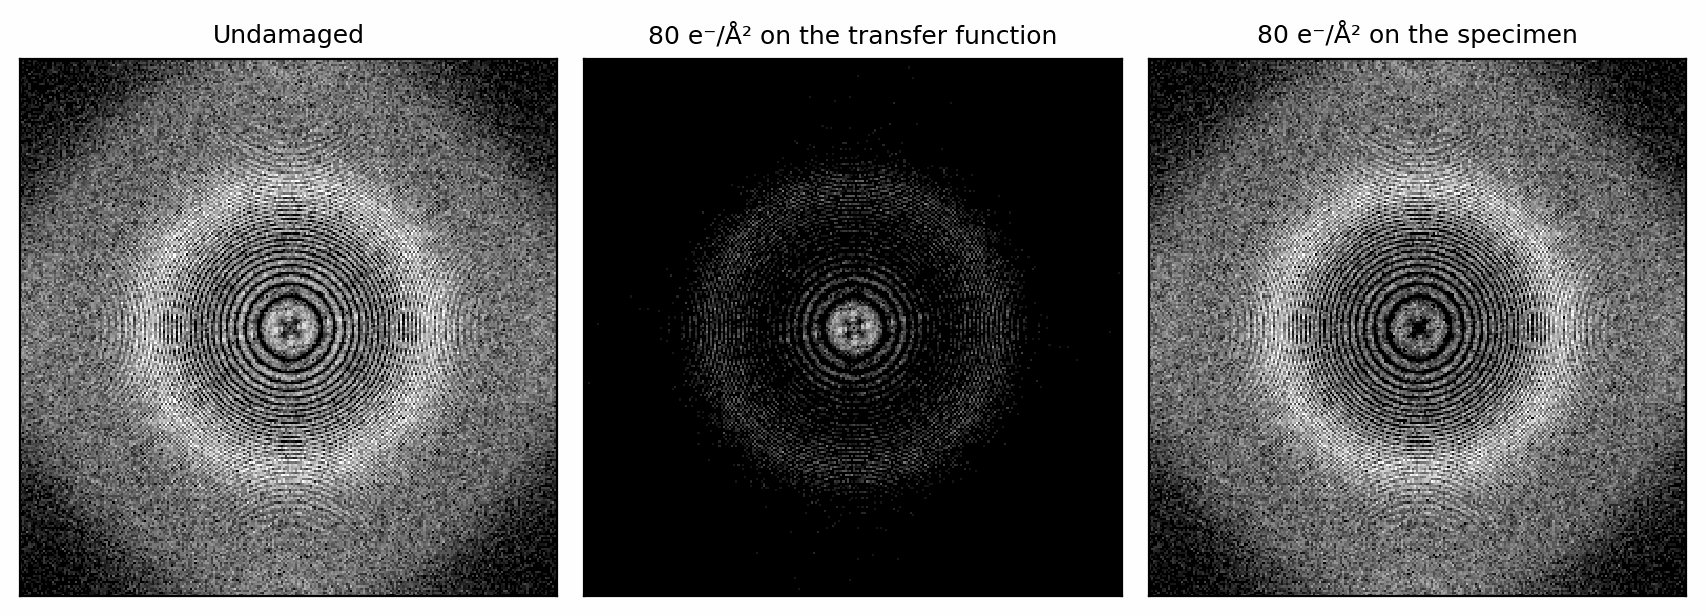
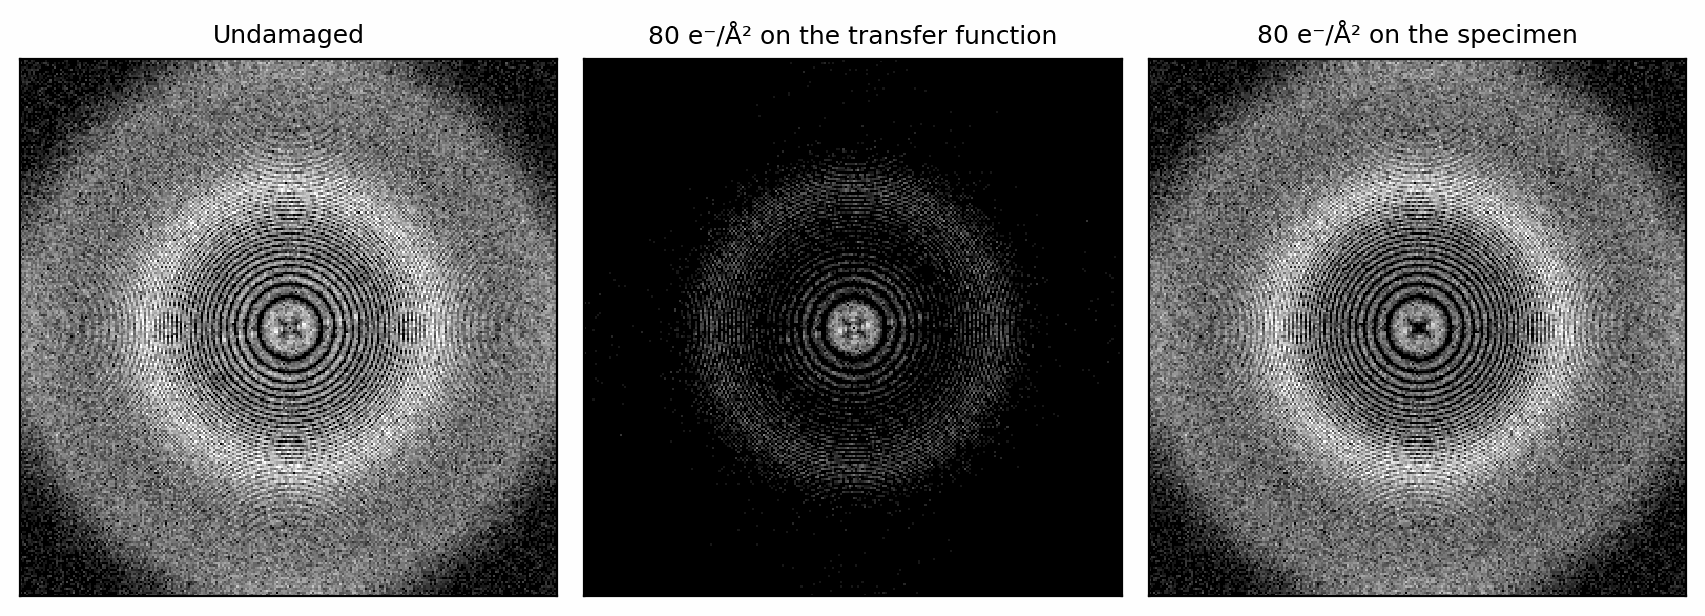
Fade a damaged particle's contrast, not its potential alone
Under dose_envelope_target="specimen" a particle stack damaged the
specimen's potential and weighted the ice by the undamaged occupancy, so
the displaced water kept its full depth. In ice the low-resolution
contrast is the potential less that water, about a quarter of the vacuum
contrast for a 70S ribosome, and it faded several times faster than the
envelope: 0.62 of the amplitude kept at 50-33 A after 40 e-/A^2 where
the envelope is 0.92. The occupancy now takes the specimen's envelope
(stages.damaged_free_fraction), which keeps 0.76 there and follows the
envelope inside 33 A. Micrographs and tilt series are unchanged.

On EMPIAR-11377 (2000 70S particles, 2D classification against the
experiment, K=50, five seeds) the class-mixing chi2 fell from 114 to 67
and twins sharing a class rose from 58% to 64%.

Claude-Session: https://claude.ai/code/session_01HVawQiaeFWLDawyxWGeYVi

diff --git a/src/specter/imaging/_stages.py b/src/specter/imaging/_stages.py
@@ -18,7 +18,7 @@ from __future__ import annotations
 
 from collections.abc import Callable
 from dataclasses import dataclass
-from typing import TYPE_CHECKING, cast
+from typing import TYPE_CHECKING, Any, cast
 
 import torch
 
@@ -30,6 +30,7 @@ from ..potential import (
     FULL_OCCUPANCY_POTENTIAL_V,
     aperture_mfp_ice,
     aperture_mfp_protein,
+    apply_dose_damage,
     ice_inelastic_mfp,
     inelastic_absorption_potential,
     potential_occupancy_slabs,
@@ -47,6 +48,7 @@ __all__ = [
     "check_objective_aperture",
     "crowd_into",
     "draw_ice",
+    "damaged_free_fraction",
     "free_fraction",
     "mfp_absorption_field",
     "read_dose_weights",
@@ -442,12 +444,11 @@ def free_fraction(
     """
     The fraction of each voxel still available to water, ``1 - occupancy``.
 
-    Computed from `V` as given, so a caller can take it from the UNDAMAGED
-    specimen and hand it to :func:`solvate` after the specimen has been
-    damaged. A molecule occupies the same volume whatever its radiation
-    history, and the dose envelope conserves the potential's integral while
-    spreading it, so reading occupancy after damage admits ice into a solid
-    interior (peak core occupancy 1.00 -> 0.81 on 1A6M at 50 e-/A^2).
+    Computed from `V` as given. A damaged specimen reads it from the
+    undamaged potential and passes it through :func:`damaged_free_fraction`,
+    which filters the occupancy with the specimen's own envelope; reading the
+    occupancy off the damaged potential instead clamps after the envelope and
+    is not that filter.
 
     Stored as float16: a weight in [0, 1] multiplying the ice, where half
     precision costs ~5e-4 relative against a blur that is itself an
@@ -479,6 +480,67 @@ def free_fraction(
                 occ.neg_().add_(1.0).clamp_(0.0, 1.0).to(torch.float16)
             )
             del occ
+    return free
+
+
+def damaged_free_fraction(
+    free: torch.Tensor,
+    pixel_size: float,
+    dose: torch.Tensor,
+    pre_exposure: torch.Tensor | float = 0.0,
+    **envelope: Any,
+) -> torch.Tensor:
+    """
+    The free fraction of a specimen damaged by the dose envelope, in place.
+
+    The occupancy ``1 - free`` takes the envelope its specimen took. A
+    particle in ice is imaged through its potential less that of the water
+    it displaces, and the critical exposures of Grant & Grigorieff [1]_ were
+    measured on that contrast. With the envelope on the potential alone the
+    displaced water keeps its full depth, and where the two nearly cancel
+    the contrast fades several times faster than measured: a 70S ribosome
+    at 40 e-/A^2 kept 0.62 of its amplitude at 50-33 A where the envelope
+    is 0.92, and 0.78 with the occupancy filtered. The envelope preserves
+    the occupancy's mean, so the volume of water displaced is unchanged.
+
+    Parameters
+    ----------
+    free : torch.Tensor
+        :func:`free_fraction` of the undamaged specimen, ``(B, Z, Y, X)``;
+        overwritten.
+    pixel_size : float
+        Voxel size in Angstrom.
+    dose, pre_exposure : torch.Tensor or float
+        Per item or scalar, as given to
+        :func:`~specter.potential.apply_dose_damage` for the specimen.
+    **envelope
+        Its remaining keywords (``weighted``, ``voltage``, ``n_frames``,
+        ``frame_weights``, ``frame_weights_max_frequency``).
+
+    Returns
+    -------
+    torch.Tensor
+        `free` itself.
+
+    References
+    ----------
+    .. [1] Grant, T., & Grigorieff, N. (2015). Measuring the optimal exposure for
+       single particle cryo-EM using a 2.6 Å reconstruction of rotavirus VP6.
+       *eLife*, 4, e06980. https://doi.org/10.7554/eLife.06980
+    """
+    dose_t = torch.as_tensor(dose, dtype=torch.float32).reshape(-1)
+    pre_t = torch.as_tensor(pre_exposure, dtype=torch.float32).reshape(-1)
+    for b in range(free.shape[0]):
+        occ = free[b].float().neg_().add_(1.0)
+        apply_dose_damage(
+            occ,
+            pixel_size,
+            dose_t[b if dose_t.numel() > 1 else 0],
+            pre_t[b if pre_t.numel() > 1 else 0],
+            **envelope,
+        )
+        free[b] = occ.neg_().add_(1.0).clamp_(0.0, 1.0).to(free.dtype)
+        del occ
     return free
 
 

diff --git a/tests/test_dose_damage.py b/tests/test_dose_damage.py
@@ -251,3 +251,60 @@ def test_solvent_motion_filters_the_fluctuation_and_keeps_the_mean():
     assert float(frozen.std()) > 0
     assert float(exposed.mean()) == pytest.approx(float(frozen.mean()), rel=1e-4)
     assert float(exposed.std()) < 0.5 * float(frozen.std())
+
+
+def test_a_damaged_specimen_displaces_water_through_its_envelope(small_volume):
+    """
+    The occupancy takes the envelope the specimen took, so the envelope acts
+    on the contrast against the solvent; the volume displaced is unchanged.
+    """
+    V = small_volume.clone().unsqueeze(0)
+    full = torch.full((1, 1, 1, 1), FULL_OCCUPANCY_POTENTIAL_V)
+    free = stages.free_fraction(V, 2.0, full)
+    expected = apply_dose_damage(1.0 - free.float(), 2.0, DOSE, n_frames=40)
+    got = stages.damaged_free_fraction(
+        free.clone(), 2.0, torch.tensor([DOSE]), n_frames=40
+    )
+    assert got.dtype == torch.float16
+    assert torch.allclose(1.0 - got.float(), expected.clamp(0.0, 1.0), atol=1e-3)
+    assert not torch.allclose(got.float(), free.float(), atol=1e-2)
+    assert float(got.float().mean()) == pytest.approx(
+        float(free.float().mean()), abs=2e-3
+    )
+
+
+def test_dose_envelope_on_a_solvated_specimen_fades_its_contrast():
+    """
+    In ice the low-resolution image of a damaged specimen is the envelope
+    times that of the undamaged one. A ball at full occupancy keeps 0.31 of
+    its vacuum contrast in ice, so a solvent hole left at full depth would
+    cost it 0.87 where the envelope is 0.96.
+    """
+    n = 48
+    x = torch.arange(n) - n / 2
+    r = 2.0 * torch.sqrt(x[:, None, None] ** 2 + x[None, :, None] ** 2 + x**2)
+    ball = FULL_OCCUPANCY_POTENTIAL_V * torch.sigmoid((20.0 - r) / 2.0)
+    solvated = Specimen(ball, 2.0).solvate(model="random")
+    exposure = Exposure(DOSE, n_frames=40)
+
+    def image(specimen: Specimen) -> torch.Tensor:
+        with torch.no_grad():
+            waves = specimen.scatter(
+                _pose(), voltage=300.0, exposure=exposure, seed=3, **LINEAR
+            )
+        return waves.pixels()[0]
+
+    bare = image(Specimen(ball, 2.0))
+    on, off = image(solvated.damage()), image(solvated)
+    k = torch.fft.fftfreq(n, d=2.0)
+    radius = torch.hypot(k[:, None], k[None, :])
+    band = (radius > 0) & (radius < 1 / 10.0)
+    reference = torch.fft.fft2(bare - bare.mean())
+
+    def kept(x: torch.Tensor) -> float:
+        return float((torch.fft.fft2(x - x.mean()) * reference.conj()).real[band].sum())
+
+    envelope = frame_damage_envelope(radius, DOSE, 40)
+    weight = reference.abs() ** 2
+    expected = float((envelope * weight)[band].sum() / weight[band].sum())
+    assert kept(on) / kept(off) == pytest.approx(expected, abs=0.02)

diff --git a/src/specter/imaging/_specimen.py b/src/specter/imaging/_specimen.py
@@ -380,7 +380,7 @@ class Specimen:
         if p.absorption_model == "inelastic_mfp":
             steps.append("absorb: mean-free-path field read off the dry specimen")
         if self.damaged:
-            steps.append("damage: dose envelope on the specimen, occupancy read first")
+            steps.append("damage: dose envelope on the specimen and its occupancy")
         if self.icemaker is not None:
             assert self.ice is not None
             steps.append(f"solvate: {self.ice.model} ice, {nz * self.voxel_size:.0f} A")
@@ -579,9 +579,9 @@ class Specimen:
         Each image's specimen, ``(n, Z, Y, X)``, and its absorption field.
 
         The order is the one physics fixes: the absorption field and the
-        occupancy are read off the dry specimen, the dose envelope acts
-        before the ice is added so the solvent keeps its structure, and the
-        aperture filters what will be propagated.
+        occupancy are read off the dry specimen, the dose envelope acts on
+        both before the ice is added so the solvent keeps its structure, and
+        the aperture filters what will be propagated.
         """
         stages.check_objective_aperture(p, objective_aperture)
         if (self.damaged or self._filters_solvent) and exposure is None:
@@ -667,17 +667,21 @@ class Specimen:
                 with torch.no_grad():
                     if self.icemaker is not None:
                         free = stages.free_fraction(V, self.voxel_size, full())
-                    V = apply_dose_damage(
-                        V,
-                        self.voxel_size,
-                        doses.to(device),
-                        pre_exposure=0.0 if pre is None else pre.to(device),
+                    envelope: dict[str, Any] = dict(
                         weighted=exposure.weighted,
                         voltage=voltage,
                         n_frames=exposure.n_frames,
                         frame_weights=exposure.weights,
                         frame_weights_max_frequency=exposure.weights_max_frequency,
                     )
+                    pre_t = 0.0 if pre is None else pre.to(device)
+                    V = apply_dose_damage(
+                        V, self.voxel_size, doses.to(device), pre_t, **envelope
+                    )
+                    if free is not None:
+                        stages.damaged_free_fraction(
+                            free, self.voxel_size, doses, pre_t, **envelope
+                        )
 
             if self.icemaker is not None:
                 assert self.ice is not None

diff --git a/tests/test_imaging_particles.py b/tests/test_imaging_particles.py
@@ -17,6 +17,8 @@ The cases with random ice (``crowded_solvated_noisy``, ``specimen_damage``,
 2026-11-07, when `RandomIcemaker` began convolving its waters periodically
 (the generator's linear convolution left each face plane at 85-94% of the
 interior's potential): from then on they pin the chain, not the generator.
+``specimen_damage`` was re-recorded again on 2026-11-21, when the dose
+envelope began filtering the specimen's occupancy with its potential.
 """
 
 from __future__ import annotations

diff --git a/docs/concepts/aberrations.md b/docs/concepts/aberrations.md
@@ -255,9 +255,17 @@ apply it to the specimen's three-dimensional potential before the
 solvent is added (`"specimen"`, `potential.apply_dose_damage`), as a radial
 envelope in 3D Fourier space. By the projection-slice theorem this is the same
 filter on the projected specimen, but the ice blended in afterwards is left
-undamaged, with occupancy read from the undamaged specimen: the envelope
-conserves the potential's integral while spreading it, and a molecule does not
-displace less water for having been irradiated. The distinction is measurable.
+undamaged. A particle in ice is imaged through its potential less that of the
+water it displaces, and the critical exposures of Grant & Grigorieff (2015)
+were measured on that contrast. A particle stack therefore filters the
+occupancy that weights the ice with the specimen's own envelope, which
+conserves the volume of water displaced. With the envelope on the potential
+alone the displaced water keeps its full depth, and at low resolution, where
+the two nearly cancel, the contrast fades several times faster than measured:
+a 70S ribosome at 40 e⁻/Å² kept 0.62 of its amplitude between 50 and 33 Å,
+where the envelope is 0.92, and 0.78 with the occupancy filtered. Micrographs
+and tilt series still weight their ice by the undamaged occupancy. That the
+solvent itself is not damaged is measurable.
 On raw EER movies of EMPIAR-11461 (Harder et al. 2023) and EMPIAR-11377
 (Fromm et al. 2023), the power of the 3.7 Å
 water ring per fraction is constant to within about 10 % across 40 to

diff --git a/docs/tutorials/dose-damage.md b/docs/tutorials/dose-damage.md
@@ -88,7 +88,7 @@ structure. On the transfer function its power follows \(E^2\) exactly, down
 to 12% at 40 e⁻/Å² and 6% at 80. That is the protein's damage law applied to
 the solvent, as if the water's own structure were destroyed by the beam.
 Water is not damaged in that sense: each frame of a raw movie shows the ring
-at full strength across 50 e⁻/Å². On the specimen, the ring keeps 95% to 97%
+at full strength across 50 e⁻/Å². On the specimen, the ring keeps 92% to 95%
 of its power at every dose, the remainder being the particle's own
 contribution to that band, which is damaged.
 
@@ -114,7 +114,7 @@ ring's power against dose; the grey band on the left marks the ring.
 ///
 
 Between 0.1 and 0.2 Å⁻¹ the particle alone keeps 22% of its power at
-40 e⁻/Å², matching \(E^2\) = 0.223, while the solvated image keeps 70% on the
+40 e⁻/Å², matching \(E^2\) = 0.223, while the solvated image keeps 66% on the
 specimen route, because most of the image power there is the ice's.
 
 ![Power spectra of the undamaged image and of 80 e⁻/Å² under each route, on one scale.](../assets/images/tutorials/dose_damage-spectra.png){ width="900" style="display:block;margin:1.2em auto;" }

diff --git a/docs/user-guide/particle-stack.md b/docs/user-guide/particle-stack.md
@@ -140,8 +140,9 @@ default, and the defaults reproduce the amplitude-contrast model.
   together with the particle. `dose_envelope_target = "specimen"` instead
   damages the particle's own potential, and those of its crowding
   neighbours, before the ice is added, so the water keeps its structure.
-  The occupancy that decides how much ice each voxel receives is read from
-  the undamaged particle. See [Aberrations](../concepts/aberrations.md#envelopes).
+  The occupancy that decides how much ice each voxel receives takes the
+  same envelope, so the particle's contrast against its solvent fades as
+  measured. See [Aberrations](../concepts/aberrations.md#envelopes).
 - **Solvent motion**: `ice_motion_variance` is the beam-induced displacement
   of the water per axis, in Å² per e⁻/Å² (McMullan et al. 2015 measured
   0.38 at 300 kV). The ice fluctuation is filtered to what survives the

diff --git a/docs/concepts/pipeline-overview.md b/docs/concepts/pipeline-overview.md
@@ -47,8 +47,8 @@ the underlying math.
 5. **Specimen radiation damage** *(optional)*. Under
    `dose_envelope_target="specimen"`, SPECTER applies the dose envelope to
    the specimen's 3D potential, crowding neighbours included, before the
-   ice is added. The occupancy that weights the ice is read from the
-   undamaged specimen. See [Aberrations](aberrations.md#envelopes).
+   ice is added. In a particle stack the occupancy that weights the ice
+   takes the same envelope. See [Aberrations](aberrations.md#envelopes).
 6. **Ice (solvation)** *(optional)*. SPECTER adds an amorphous ice
    volume, weighting it in each voxel by the fraction that the specimen
    leaves free: \(1 - \mathrm{clamp}(\bar V / 7.0\,\mathrm{V}, 0, 1)\),

diff --git a/docs/walkthrough/specimens.md b/docs/walkthrough/specimens.md
@@ -248,8 +248,9 @@ setup fixes that generator, and with it the poses `Poses.random` draws;
 `damage` applies each exposure's dose envelope (Grant & Grigorieff 2015) to
 the specimen's potential, fading its high-resolution structure as the electron
 dose destroys it. It acts
-on the specimen before the ice is added, so the ice keeps its structure, and
-the volume the specimen displaces is read from the undamaged potential.
+on the specimen before the ice is added, so the ice keeps its structure. The
+occupancy that decides how much water the specimen displaces takes the same
+envelope, so the envelope fades the specimen's contrast against its solvent.
 `plan` shows that order:
 
 ```python
